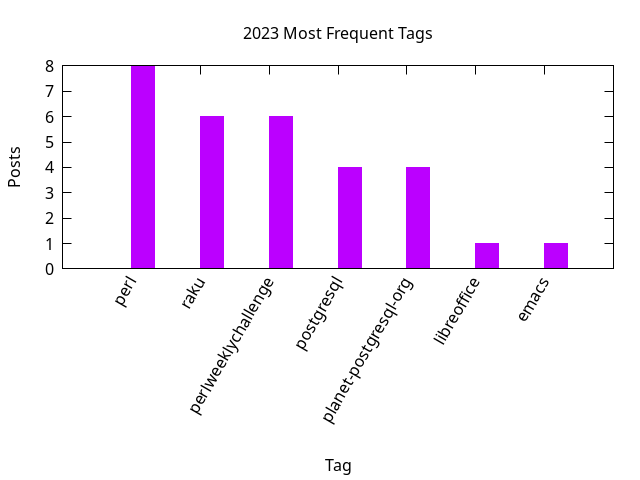
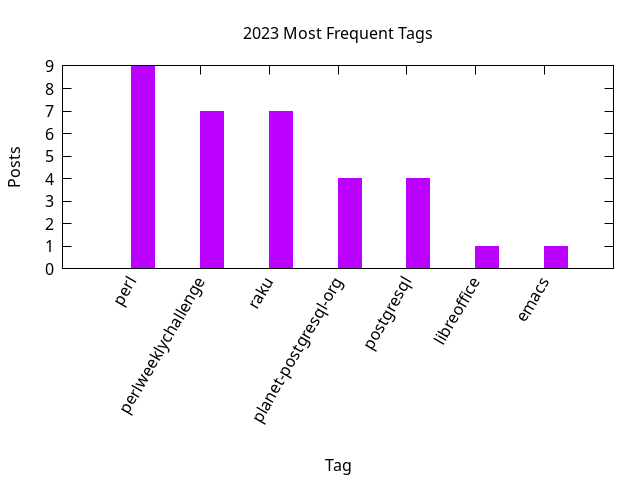
Stats update

diff --git a/_includes/stats/2023.md b/_includes/stats/2023.md
@@ -1,15 +1,15 @@
 <a name="2023" />
 ## 2023 (work in progress)
 
-**13 total posts** have been written on 2023.
+**14 total posts** have been written on 2023.
 There have been *7 different tags* used, the most
 popular being (sorted by number of posts):
  
-- *perl* (8 posts)  
-- *raku* (6 posts)  
-- *perlweeklychallenge* (6 posts)  
-- *postgresql* (4 posts)  
+- *perl* (9 posts)  
+- *perlweeklychallenge* (7 posts)  
+- *raku* (7 posts)  
 - *planet-postgresql-org* (4 posts)  
+- *postgresql* (4 posts)  
 - *libreoffice* (1 posts)  
 - *emacs* (1 posts).<br/>
 <br/>
@@ -30,7 +30,7 @@ The following is the overall 2023 post ratio by tag (showing max 30 tags):
 
 <div align="right">
 <small>
-Last generated on 2023-02-06 at 17:47
+Last generated on 2023-02-13 at 12:05
 </small>
 </div>
 
